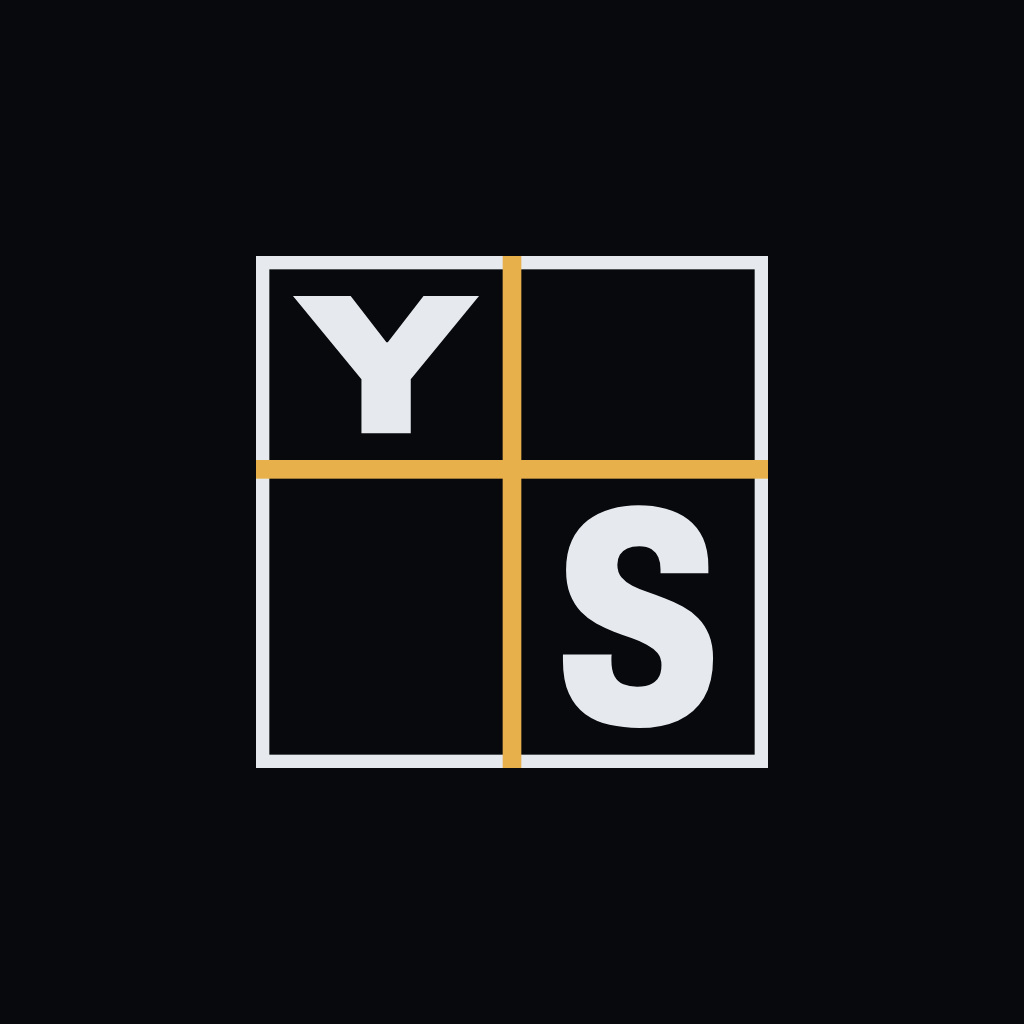
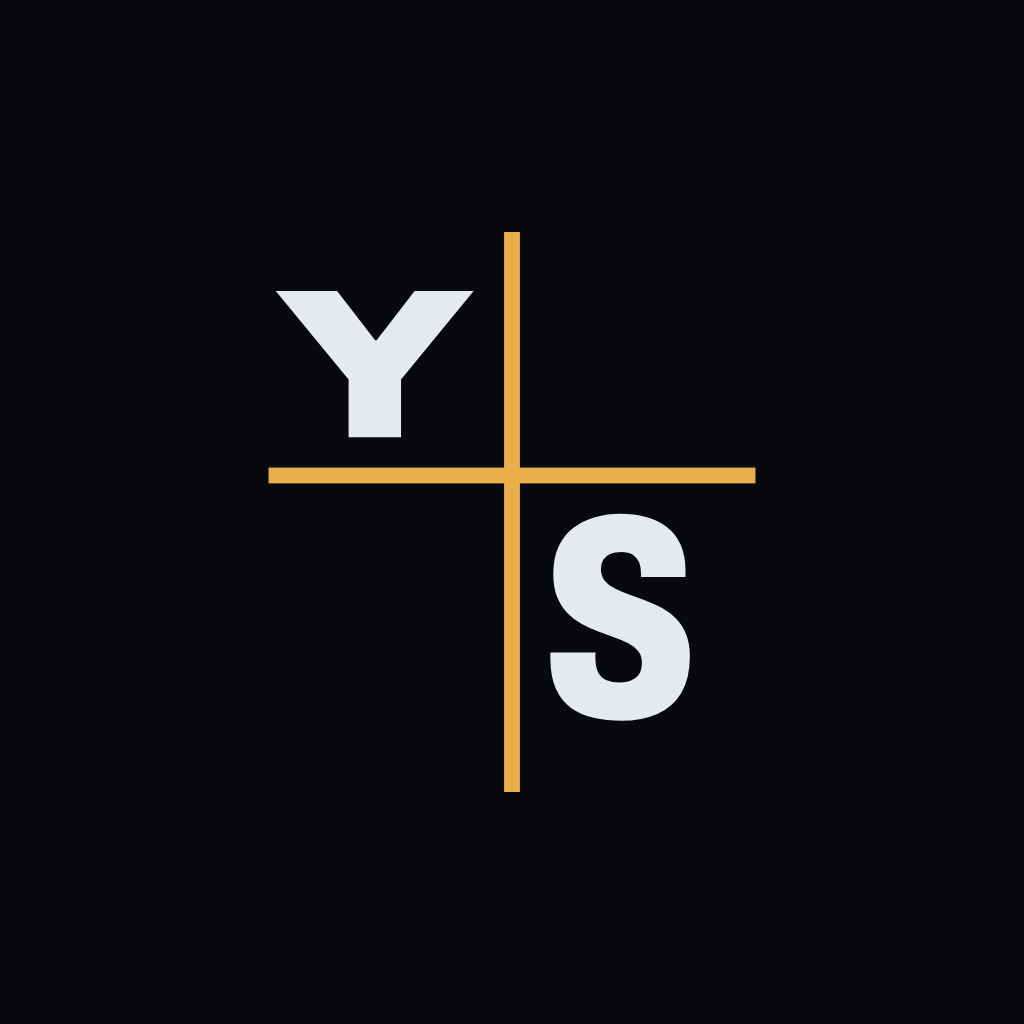
Rework YS brand v3 into an open cross mark
Drop the seal frame: Y and S now sit against the crossing of a compact
gold Latin cross (80x92), with filled tiles instead of outlines when a
container is needed. Positioning line becomes Android Platform &
Architecture. Regenerated logos, images and docs.

Claude-Session: https://claude.ai/code/session_01XWe6HyvseYDUaov9Jn6rBj

Changed region(s): [[0.25, 0.2188, 0.75, 0.7812]]

diff --git a/docs/brand/v3/README.md b/docs/brand/v3/README.md
@@ -1,14 +1,16 @@
-# Brand v3: YS "Seal"
+# Brand v3: YS "Cross"
 
-A cruciform monogram. A gold Latin cross divides a square seal into quarters;
-**Y** fills the short upper-left quarter and **S** the tall lower-right one,
-as letters sit in the quarters of the cross in the IC XC inscription on icons.
-To anyone else the mark reads as a pair of coordinate axes.
+A cruciform monogram. **Y** and **S** sit in the quarters of a gold Latin
+cross, against the crossing, as IC XC does on icons and prosphora seals. To
+anyone else the mark reads as a pair of coordinate axes. There is no frame:
+when the mark needs a container it gets a filled tile, never an outline.
 
-Y is set in Archivo Expanded Black and S in Archivo Narrow ExtraBold, so each
-letter fills its quarter without distortion. Geometry lives in
-`source/brand.mjs`: 96-unit square, 2.5 frame, 3.5 cross with the crossbar at
-y 40, 5-unit inner margin.
+Geometry lives in `source/brand.mjs`: 80 × 92 units, cross 2.6 thick with the
+crossing at (40, 40), arms 40 and a 52 foot. Y is Archivo Expanded Black at
+24, S is Archivo Narrow ExtraBold at 34, both 5 units from the cross.
+
+Positioning line: **Android Platform & Architecture** (a specialisation, not
+a title).
 
 Faith in the system stays quiet: the cross is the mark's only gold element,
 and **S·D·G** (Soli Deo Gloria, Bach's signature on his scores) is set as a
@@ -16,11 +18,13 @@ small gold hallmark on the card back, the slide footer and the post template.
 
 ## Contents
 
-- `logo/`: seal (platinum, ink, one-colour), open version without the frame,
-  lockups for dark grounds and white paper, square tiles.
+- `logo/`: mark (platinum, ink with dark gold, one-colour, small with a
+  thicker cross), lockups for dark grounds and white paper, filled tiles and
+  a favicon.
 - `images/`: avatars, LinkedIn and X headers, OG preview, title slide, journal
   post template, business card faces and a mockup with a gilded edge.
-- `logo-directions.png`: the four executions compared before choosing the seal.
+- `logo-directions.png`, `frame-options.png`, `cross-proportions.png`: the
+  explorations behind the final mark (seal executions, framing, proportions).
 - `source/`: the generators.
 
 Palette and typefaces are shared with v2 (Abyss `#07090D`, Platinum `#E6E9ED`,
@@ -30,9 +34,8 @@ Gold `#E8B04B`, Haze `#7D8794`; Archivo and JetBrains Mono).
 
 ```sh
 npm i --no-save opentype.js playwright-core
-# fonts in source/fonts/ (or BRAND_FONTS): ArchivoX-{500,900}.ttf (wdth 125),
-# ArchivoN1-800.ttf (narrow), Archivo-{300,400,500}.ttf, ArchivoX-{300,700}.ttf,
-# JetBrainsMono-{400,500}.ttf
+# fonts in source/fonts/ (or BRAND_FONTS): ArchivoX-{300,500,700,900}.ttf (wdth 125),
+# ArchivoN1-800.ttf (narrow), Archivo-{300,400,500}.ttf, JetBrainsMono-{400,500}.ttf
 node docs/brand/v3/source/gen-logos.mjs docs/brand/v3/logo
 CHROMIUM_PATH=/path/to/chrome node docs/brand/v3/source/gen-scenes.mjs docs/brand/v3/images /tmp/brand-scenes
 ```

diff --git a/docs/brand/README.md b/docs/brand/README.md
@@ -2,8 +2,8 @@
 
 Personal identity explorations for Yurii Surzhykov.
 
-- [`v3/`](v3/README.md), **Seal** (current): Y and S in the quarters of a gold
-  Latin cross inside a square seal; S·D·G hallmark.
+- [`v3/`](v3/README.md), **Cross** (current): Y and S in the quarters of a
+  gold Latin cross, no frame; S·D·G hallmark; Android Platform & Architecture.
 - [`v2/`](v2/README.md), **Billet**: a monolithic block cut by a Y-channel and
   two S-slots, deep Abyss ground, gold accent.
 - [`v1/`](v1/README.md), **One line**: Y and S drawn as one continuous stroke
